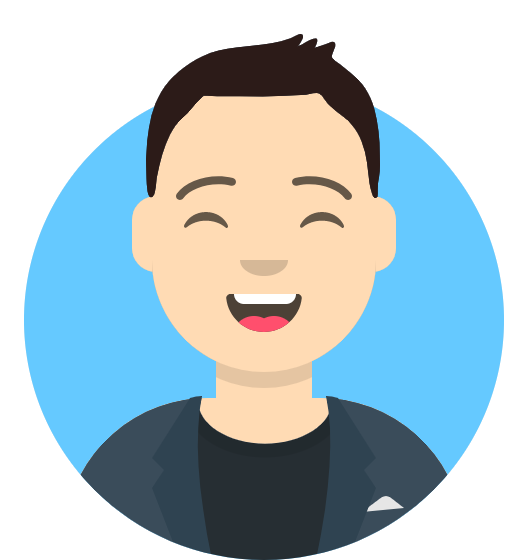
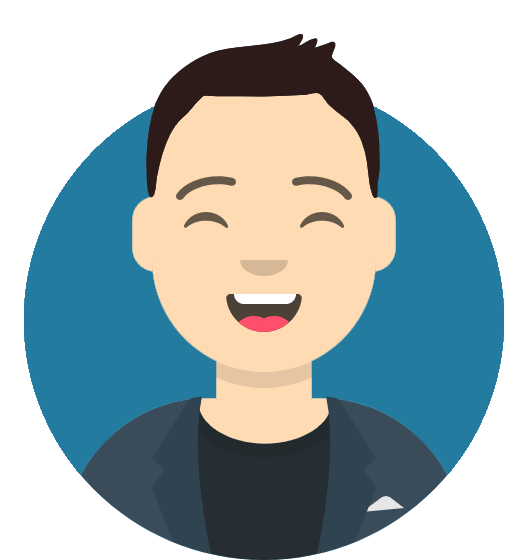
feat: custom theme

Changed region(s): [[0.5758, 0.1821, 0.9697, 0.85], [0.0303, 0.1821, 0.4242, 0.85]]

diff --git a/src/components/Services/components/Pricing/index.tsx b/src/components/Services/components/Pricing/index.tsx
@@ -66,11 +66,11 @@ const Pricing: React.FC = () => {
           >
             <List spacing={3} textAlign="start" px={12}>
               <ListItem>
-                <ListIcon as={FaCheckCircle} color="green.500" />
+                <ListIcon as={FaCheckCircle} color="brand.100" />
                 portfolios, sites institucionais e/ou pessoais
               </ListItem>
               <ListItem>
-                <ListIcon as={FaCheckCircle} color="green.500" />
+                <ListIcon as={FaCheckCircle} color="brand.100" />
                 consultoria de hospedagem grátis
               </ListItem>
               <ListItem>
@@ -106,23 +106,23 @@ const Pricing: React.FC = () => {
             >
               <List spacing={3} textAlign="start" px={12}>
                 <ListItem>
-                  <ListIcon as={FaCheckCircle} color="green.500" />
+                  <ListIcon as={FaCheckCircle} color="brand.100" />
                   desenvolvimento sob medida
                 </ListItem>
                 <ListItem>
-                  <ListIcon as={FaCheckCircle} color="green.500" />
+                  <ListIcon as={FaCheckCircle} color="brand.100" />
                   seguro e performático
                 </ListItem>
                 <ListItem>
-                  <ListIcon as={FaCheckCircle} color="green.500" />
+                  <ListIcon as={FaCheckCircle} color="brand.100" />
                   design próprio ou do cliente
                 </ListItem>
                 <ListItem>
-                  <ListIcon as={FaCheckCircle} color="green.500" />
+                  <ListIcon as={FaCheckCircle} color="brand.100" />
                   desenvolvimento de protótipos
                 </ListItem>
                 <ListItem>
-                  <ListIcon as={FaCheckCircle} color="green.500" />
+                  <ListIcon as={FaCheckCircle} color="brand.100" />
                   publicação na Play Store
                 </ListItem>
               </List>
@@ -153,19 +153,19 @@ const Pricing: React.FC = () => {
           >
             <List spacing={3} textAlign="start" px={12}>
               <ListItem>
-                <ListIcon as={FaCheckCircle} color="green.500" />
+                <ListIcon as={FaCheckCircle} color="brand.100" />
                 frontend + backend
               </ListItem>
               <ListItem>
-                <ListIcon as={FaCheckCircle} color="green.500" />
+                <ListIcon as={FaCheckCircle} color="brand.100" />
                 desenvolvimento de protótipos
               </ListItem>
               <ListItem>
-                <ListIcon as={FaCheckCircle} color="green.500" />
+                <ListIcon as={FaCheckCircle} color="brand.100" />
                 facil manutenção e evolução do produto
               </ListItem>
               <ListItem>
-                <ListIcon as={FaCheckCircle} color="green.500" />
+                <ListIcon as={FaCheckCircle} color="brand.100" />
                 consultoria de hospedagem grátis
               </ListItem>
             </List>
@@ -176,12 +176,12 @@ const Pricing: React.FC = () => {
         w="100%"
         p="2%"
         color="white"
-        bgColor="#2eca7f"
+        bgColor="brand.100"
         mt="20px"
         fontSize="md"
         fontWeight="bold"
         _hover={{
-          bgColor: "#2eca7f",
+          bgColor: "brand.100",
         }}
         onClick={() => {
           setCurrentScreen(4)

diff --git a/src/components/Contact/index.tsx b/src/components/Contact/index.tsx
@@ -43,7 +43,7 @@ const Contact: React.FC = () => {
     >
       <Box
         roundedTop="lg"
-        bgColor="#2eca7f"
+        bgColor="brand.100"
         bgImage="url('images/banner-bg.png')"
         bgPosition="center"
         bgRepeat="no-repeat"
@@ -94,7 +94,7 @@ const Contact: React.FC = () => {
                   <InputGroup borderColor="#E0E1E7">
                     <InputLeftElement
                       pointerEvents="none"
-                      children={<MdOutlineTextFields color="#2eca7f" />}
+                      children={<MdOutlineTextFields color="brand.100" />}
                     />
                     <Input
                       type="text"
@@ -109,7 +109,7 @@ const Contact: React.FC = () => {
                   <InputGroup borderColor="#E0E1E7">
                     <InputLeftElement
                       pointerEvents="none"
-                      children={<MdOutlineEmail color="#2eca7f" />}
+                      children={<MdOutlineEmail color="brand.100" />}
                     />
                     <Input
                       type="text"
@@ -124,7 +124,7 @@ const Contact: React.FC = () => {
                   <InputGroup borderColor="#E0E1E7">
                     <InputLeftElement
                       pointerEvents="none"
-                      children={<MdOutlineMessage color="#2eca7f" />}
+                      children={<MdOutlineMessage color="brand.100" />}
                     />
                     <Textarea
                       pl="10"
@@ -142,12 +142,12 @@ const Contact: React.FC = () => {
                     w="100%"
                     p="2%"
                     color="white"
-                    bgColor="#2eca7f"
+                    bgColor="brand.100"
                     mt="20px"
                     fontSize="md"
                     fontWeight="bold"
                     _hover={{
-                      bgColor: "#2eca7f",
+                      bgColor: "brand.100",
                     }}
                     onClick={handleSubmit}
                   >

diff --git a/src/components/Portfolio/index.tsx b/src/components/Portfolio/index.tsx
@@ -19,7 +19,7 @@ const Portfolio: React.FC = () => {
     >
       <Box
         roundedTop="lg"
-        bgColor="#2eca7f"
+        bgColor="brand.100"
         bgImage="url('images/banner-bg.png')"
         bgPosition="center"
         bgRepeat="no-repeat"
@@ -50,28 +50,28 @@ const Portfolio: React.FC = () => {
             <Tab
               fontSize={tabFontSize}
               fontWeight="semibold"
-              _selected={{ color: "white", bg: "#2eca7f" }}
+              _selected={{ color: "white", bg: "brand.100" }}
             >
               Sites
             </Tab>
             <Tab
               fontSize={tabFontSize}
               fontWeight="semibold"
-              _selected={{ color: "white", bg: "#2eca7f" }}
+              _selected={{ color: "white", bg: "brand.100" }}
             >
               Aplicativos
             </Tab>
             <Tab
               fontSize={tabFontSize}
               fontWeight="semibold"
-              _selected={{ color: "white", bg: "#2eca7f" }}
+              _selected={{ color: "white", bg: "brand.100" }}
             >
               Sistemas
             </Tab>
             <Tab
               fontSize={tabFontSize}
               fontWeight="semibold"
-              _selected={{ color: "white", bg: "#2eca7f" }}
+              _selected={{ color: "white", bg: "brand.100" }}
             >
               Outros
             </Tab>

diff --git a/src/components/Home/Description/index.tsx b/src/components/Home/Description/index.tsx
@@ -37,7 +37,7 @@ const Description: React.FC = () => {
           </Text>
           <Button
             color="white"
-            bgColor="#2eca7f"
+            bgColor="brand.100"
             mt="20px"
             fontSize={{
               sm: "small",
@@ -45,7 +45,7 @@ const Description: React.FC = () => {
             }}
             fontWeight="bold"
             _hover={{
-              bgColor: "#2eca7f",
+              bgColor: "brand.100",
             }}
           >
             <a href={resumePdf}>Baixar currículo</a>
@@ -59,7 +59,7 @@ const Description: React.FC = () => {
         >
           <HomeInfo title="Idade" value="21" />
           <HomeInfo title="Cidade" value="Hortolândia/SP" />
-          <HomeInfo title="E-mail" value="thiscosta@live.com" color="#2eca7f" />
+          <HomeInfo title="E-mail" value="thiscosta@live.com" color="brand.100" />
           <HomeInfo title="Celular" value="(19) 98979-8197" />
           <HomeInfo title="Freelance" value="Disponível" />
         </Box>

diff --git a/src/components/Resume/components/commons/Cards/index.tsx b/src/components/Resume/components/commons/Cards/index.tsx
@@ -27,7 +27,7 @@ const Cards: React.FC<CardsParams> = ({
     <Box
       my="4"
       bg={useColorModeValue("white", "gray.900")}
-      borderLeftColor="#2eca7f"
+      borderLeftColor="brand.100"
       rounded="lg"
       borderWidth={1}
       p={5}
@@ -36,10 +36,10 @@ const Cards: React.FC<CardsParams> = ({
         {title}
       </Heading>
       <Box display="flex" flexDirection="row" mb={4}>
-        <Text fontSize="xs" color="#2eca7f" mr="1.5">
+        <Text fontSize="xs" color="brand.100" mr="1.5">
           {date}
         </Text>
-        <Text fontSize="xs" color="#2eca7f" mr="1.5">
+        <Text fontSize="xs" color="brand.100" mr="1.5">
           |
         </Text>
         <Text fontSize="xs" color={"gray.500"}>
@@ -62,7 +62,7 @@ const Cards: React.FC<CardsParams> = ({
           {tags.map(tag => (
             <Box>
               <Badge
-                bgColor="#2eca7f"
+                bgColor="brand.100"
                 color="white"
                 fontWeight={"600"}
               >

diff --git a/src/pages/index.tsx b/src/pages/index.tsx
@@ -1,12 +1,29 @@
+import { ChakraProvider } from "@chakra-ui/react"
 import * as React from "react"
 import Main from "../components/Main"
 import NavigationContextComponent from "../contexts/NavigationContexts"
+import { extendTheme } from "@chakra-ui/react"
+
+// 2. Call `extendTheme` and pass your custom values
+const theme = extendTheme({
+  initialColorMode: 'dark',
+  useSystemColorMode: false,
+  colors: {
+    brand: {
+      100: "#247BA0",
+      // ...
+      900: "#1a202c",
+    },
+  },
+})
 
 const IndexPage = () => {
   return (
-    <NavigationContextComponent>
-      <Main />
-    </NavigationContextComponent>
+    <ChakraProvider theme={theme} >
+      <NavigationContextComponent>
+        <Main />
+      </NavigationContextComponent>
+    </ChakraProvider>
   )
 }
 

diff --git a/src/components/Header/index.tsx b/src/components/Header/index.tsx
@@ -35,7 +35,7 @@ const Header: React.FC<HeaderParams> = ({ siteTitle }) => {
   return (
     <Box style={{ position: "relative", zIndex: 2 }} mb="30px">
       <Flex
-        bg="#2eca7f"
+        bg="brand.100"
         minH={"60px"}
         py={{ base: 2 }}
         px={{ base: 4 }}
@@ -146,7 +146,7 @@ const MobileNav: React.FC = () => {
   const { setCurrentScreen } = React.useContext(NavigationContext)
 
   return (
-    <Stack bgColor="#2eca7f" p={4} display={{ md: "none" }}>
+    <Stack bgColor="brand.100" p={4} display={{ md: "none" }}>
       {NAV_ITEMS.map((navItem, navIndex) => (
         <MobileNavItem
           key={navItem.label}

diff --git a/src/components/Contact/components/ContactItem/index.tsx b/src/components/Contact/components/ContactItem/index.tsx
@@ -9,7 +9,7 @@ export interface ContactItemParams {
 const ContactItem: React.FC<ContactItemParams> = ({ title, icon }) => {
   return (
     <Box display="flex" flexDir="row" alignItems="center" mt="5">
-      <Icon as={icon} w={5} h={5} color="#2eca7f" mr="8" />
+      <Icon as={icon} w={5} h={5} color="brand.100" mr="8" />
       <Text fontWeight="bold" fontSize="sm">
         {title}
       </Text>

diff --git a/src/components/Resume/components/DownloadButton/index.tsx b/src/components/Resume/components/DownloadButton/index.tsx
@@ -17,12 +17,12 @@ const DownloadButton: React.FC = () => {
         w="100%"
         p="2%"
         color="white"
-        bgColor="#2eca7f"
+        bgColor="brand.100"
         mt="20px"
         fontSize="md"
         fontWeight="bold"
         _hover={{
-          bgColor: "#2eca7f",
+          bgColor: "brand.100",
         }}
       >
         <a href={resumePdf}>Baixar currículo</a>{" "}

diff --git a/src/components/Resume/components/CodingSkills/components/Skill/index.tsx b/src/components/Resume/components/CodingSkills/components/Skill/index.tsx
@@ -11,7 +11,7 @@ const Skill: React.FC<SkillParams> = ({ title, value }) => {
   return (
     <Box mt={4}>
       <Text>{title}</Text>
-      <Progress hasStripe colorScheme="green" size="sm" value={value} />
+      <Progress hasStripe colorScheme="blue" size="sm" value={value} />
     </Box>
   )
 }

diff --git a/src/components/Services/index.tsx b/src/components/Services/index.tsx
@@ -14,7 +14,7 @@ const Services: React.FC = () => {
     >
       <Box
         roundedTop="lg"
-        bgColor="#2eca7f"
+        bgColor="brand.100"
         bgImage="url('images/banner-bg.png')"
         bgPosition="center"
         bgRepeat="no-repeat"

diff --git a/src/components/Resume/index.tsx b/src/components/Resume/index.tsx
@@ -15,7 +15,7 @@ const Resume: React.FC = () => {
     >
       <Box
         roundedTop="lg"
-        bgColor="#2eca7f"
+        bgColor="brand.100"
         bgImage="url('images/banner-bg.png')"
         bgPosition="center"
         bgRepeat="no-repeat"
